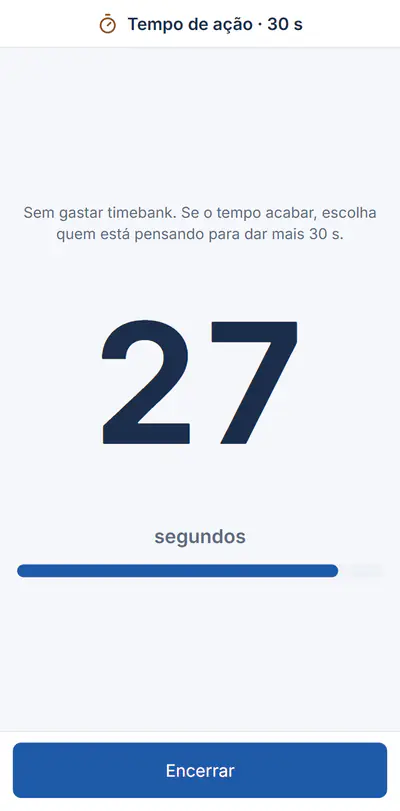
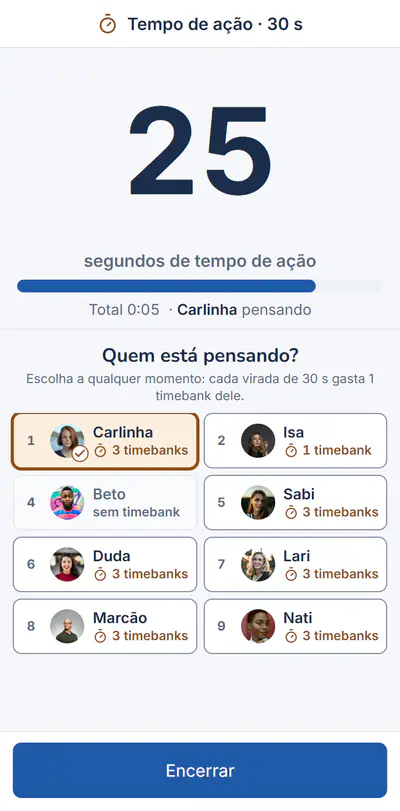
Manual: Início, cards clicáveis e timebank contínuo
Textos do Início, do menu, dos cards do jogador e do torneio e dos passos
do timebank; prints refeitos: terminal-timebank, terminal-timebank-contagem,
home-game-novo, seletor-liga e pc-painel-torneio.

diff --git a/src/pages/manual/manual.content.ts b/src/pages/manual/manual.content.ts
@@ -179,7 +179,7 @@ export const MANUAL_MODULES = [
           {
             title: 'O Início',
             text: [
-              'Toda vez que você entra (ou abre pokerdagalera.com.br já logado), o site abre no Início: o seu plano, o que está acontecendo Agora — o torneio em andamento, com Painel, Telão no celular e Terminal do dealer — e os seus últimos torneios, com Novo Torneio.',
+              'Toda vez que você entra (ou abre pokerdagalera.com.br já logado), o site abre no Início: o seu plano, o que está acontecendo Agora — o torneio em andamento (toque nele para abrir o painel), com Telão no celular e Terminal do dealer — e os seus últimos torneios, com Novo Torneio.',
               'Daqui você vai para tudo pelo menu: Torneios, Estruturas e Jogadores (no Clube e na Liga, também Rankings, Membros e Configurações).',
             ],
             image: 'inicio',
@@ -422,7 +422,7 @@ export const MANUAL_MODULES = [
             title: 'A tela da mesa',
             text: [
               'No topo ficam o relógio, o nível e os controles: Anterior, Pausar e Próximo. Toque no nome da mesa para trocar de mesa.',
-              'Cada jogador tem um card com foto, rebuys, add-ons e quanto deve, e os botões Rebuy, Add-on, Pagar e Eliminar.',
+              'Cada jogador tem um card com foto, rebuys, add-ons e quanto deve, e os botões Rebuy, Add-on, Pagar e Eliminar. Toque em qualquer lugar do card, fora dos botões, para abrir a Ficha do jogador.',
             ],
             tip: 'Mesas desequilibradas? O terminal avisa e sugere quem muda (Sortear quem muda ou Escolher eu mesmo).',
             image: 'terminal-mesa',
@@ -498,22 +498,24 @@ export const MANUAL_MODULES = [
           {
             title: 'Timebank',
             text: [
-              'Com o timebank ligado no torneio, o topo do terminal tem o botão Tempo, ao lado de Anterior, Pausar e Próximo. Quando alguém começar a pensar, toque nele: o celular conta o tempo de ação em tela cheia, sem gastar nenhum timebank. Se o jogador decidir antes, toque em Encerrar.',
+              'Com o timebank ligado no torneio, o topo do terminal tem o botão Tempo, ao lado de Anterior, Pausar e Próximo. Quando alguém começar a pensar, toque nele: o celular conta em tela cheia, sem parar, até você tocar em Encerrar. Os primeiros segundos são o tempo de ação e não gastam nenhum timebank — se o jogador decidir antes, toque em Encerrar.',
+              'Embaixo do relógio fica a lista Quem está pensando?, com os jogadores da mesa e quantos timebanks cada um tem. Toque em quem está pensando quando quiser (já no começo, se você souber) e troque se errou.',
               'O organizador liga o timebank no cartão Timebank do torneio (ou deixa como padrão na estrutura de blinds): quantos timebanks cada jogador ganha e o tempo de ação, em segundos. Torneio sem timebank não mostra nada disso.',
             ],
             tip: 'Quantos timebanks cada jogador ainda tem fica na Ficha dele, com −1 e +1 para tirar ou dar um (no terminal e na aba Jogadores do painel).',
             image: 'terminal-timebank',
-            imageAlt: 'Cronômetro em tela cheia com Tempo de ação · 30 s no topo, os segundos andando, a barra azul e o botão Encerrar',
+            imageAlt: 'Cronômetro em tela cheia com Tempo de ação · 30 s no topo, os segundos andando, a barra azul, o total, a lista Quem está pensando? com um jogador marcado e o botão Encerrar',
           },
           {
             title: 'A contagem do timebank',
             text: [
-              'Se o tempo de ação acabar, o celular apita, vibra e pergunta Quem está pensando?, com os jogadores da mesa e quantos timebanks cada um tem (quem não tem nenhum fica apagado). Toque no jogador: gasta 1 timebank dele e conta de novo o mesmo tempo, como Timebank de Fulano. Não usar timebank fecha sem gastar nada.',
-              'Acabou de novo? Usar mais 1 timebank gasta outro, se ele tiver; senão aparece Sem timebank — tempo esgotado. A contagem é do celular e não para se a internet cair: se o uso não for registrado, aparece Não registrado — Tentar de novo. Cada uso fica no Histórico, com o seu nome e Desfazer (o timebank volta para o jogador).',
+              'Quando o tempo de ação acaba, o celular apita e vibra, e o relógio continua: a cada vez que passa mais um tempo de ação (a virada), gasta 1 timebank de quem está marcado, sem voltar a contagem para o começo. O número grande é o que falta até a próxima virada; embaixo fica o total desde o toque. Dez segundos antes de cada virada o celular apita de novo.',
+              'Ninguém marcado na virada? A contagem segue e a tela pede Quem está pensando?; ao tocar no jogador, as viradas que já passaram são gastas na hora. Sem timebank (ou quando os dele acabam), o tempo segue contando em vermelho como tempo esgotado até você tocar em Encerrar.',
+              'A contagem é do celular e não para se a internet cair: se o uso não for registrado, aparece Não registrado — Tentar de novo. Ao encerrar, um aviso resume os timebanks gastos, com Desfazer; cada uso fica no Histórico, com o seu nome e Desfazer (o timebank volta para o jogador).',
             ],
             tip: 'No iPhone não há vibração: fica só o bipe. Deixe o som do celular ligado.',
             image: 'terminal-timebank-contagem',
-            imageAlt: 'Tela Quem está pensando? com os jogadores da mesa pelo lugar, cada um com a foto, o nome e quantos timebanks tem, um deles apagado com sem timebank, e o botão Não usar timebank',
+            imageAlt: 'Timebank de um jogador em tela cheia: os segundos até a próxima virada, a barra laranja, o total, a lista Quem está pensando? com o jogador marcado e quantos timebanks cada um tem, e o botão Encerrar',
           },
         ],
       },
@@ -580,7 +582,7 @@ export const MANUAL_MODULES = [
           {
             title: 'O Início',
             text: [
-              'É a primeira tela depois de entrar: o plano, o que está acontecendo Agora (Painel, Telão no celular e Terminal do dealer de cada torneio em andamento) e os últimos torneios. Na Liga, um cartão por home game; quem ajuda a organizar o clube de outra pessoa vê também Clubes em que você participa.',
+              'É a primeira tela depois de entrar: o plano, o que está acontecendo Agora (toque no torneio em andamento para abrir o painel, ou em Telão no celular e Terminal do dealer) e os últimos torneios. Na Liga, um cartão por home game, só com o nome: toque nele para abrir. Quem ajuda a organizar o clube de outra pessoa vê também Clubes em que você participa, com o nome do clube e de quem é.',
             ],
             image: 'pc-inicio',
             imageAlt: 'Início no computador: o menu à esquerda, o torneio de hoje em Agora e os últimos torneios do clube',
@@ -589,7 +591,7 @@ export const MANUAL_MODULES = [
             title: 'O menu',
             text: [
               'O menu à esquerda tem Início, Torneios, Estruturas e Jogadores. No Clube e na Liga aparecem também Rankings, Membros e Configurações. Embaixo ficam Meu perfil e Meu plano.',
-              'Em Torneios ficam todos os torneios, com status, data, entradas e premiação. Toque num torneio para abrir o painel; dentro dele, o menu mostra ← Torneios para voltar.',
+              'Em Torneios ficam todos os torneios, com status, data, entradas e premiação. Toque em qualquer lugar do torneio para abrir o painel; dentro dele, Torneios continua marcado no menu, e a seta no topo do painel volta para a lista.',
             ],
             image: 'pc-torneios',
             imageAlt: 'Seção Torneios no computador, com o menu à esquerda e Torneios marcado',
@@ -649,7 +651,7 @@ export const MANUAL_MODULES = [
             title: 'Jogadores',
             text: [
               'A lista é a mesma do terminal: cards por mesa com Rebuy, Add-on, Pagar e Eliminar, filtros (Jogando, Eliminados, Devendo) e o Histórico com desfazer.',
-              'Toque no nome do jogador para abrir a ficha dele.',
+              'Toque em qualquer lugar do card do jogador, fora dos botões, para abrir a ficha dele.',
             ],
             image: 'painel-jogadores',
             imageAlt: 'Aba Jogadores do painel com Adicionar, o aviso de mesas e os filtros Todos, Jogando, Eliminados e Devendo',
@@ -862,7 +864,7 @@ export const MANUAL_MODULES = [
             title: 'Como jogador, no Início',
             text: [
               'O Início mostra quantos torneios você jogou, as vitórias, quantas vezes ficou na premiação e quanto ainda está em aberto, com os 5 últimos torneios.',
-              'O torneio que está acontecendo agora aparece em Agora, com o botão Acompanhar.',
+              'O torneio que está acontecendo agora aparece em Agora: toque nele (ou em Acompanhar) para ver o relógio e a sua ficha.',
             ],
             image: 'jogador-inicio',
             imageAlt: 'Início do jogador no celular: o torneio de hoje em Agora com Acompanhar e os números em Como jogador',
